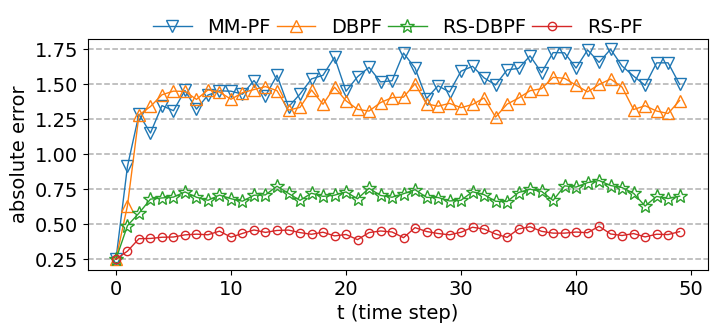
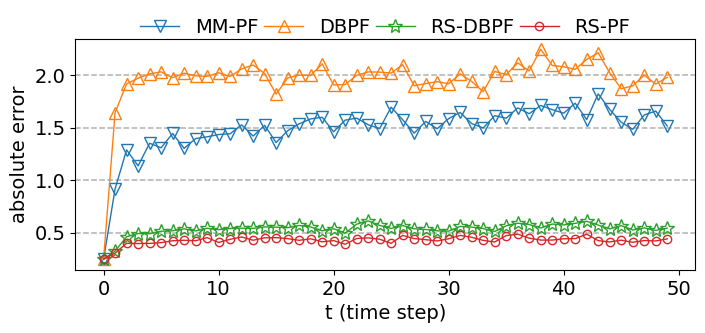
update readme and neural network

diff --git a/NNs.py b/NNs.py
@@ -12,36 +12,50 @@ class dynamic_NN(nn.Module):
         return torch.squeeze(self.fc(s.view(-1, self.input)))
 
 # Neural network for RS-DBPF
+# class dynamic_RSNN(nn.Module): 
+#     def __init__(self, input, hidden, output): 
+#         super().__init__()
+#         self.input = input
+#         self.fc0 = nn.Sequential(nn.Linear((input), (hidden), dtype=torch.float32), nn.Tanh(), nn.Linear((hidden), (output), dtype=torch.float32))
+#         self.fc1 = nn.Sequential(nn.Linear((input), (hidden), dtype=torch.float32), nn.Tanh(), nn.Linear((hidden), (output), dtype=torch.float32))
+#         self.fc2 = nn.Sequential(nn.Linear((input), (hidden), dtype=torch.float32), nn.Tanh(), nn.Linear((hidden), (output), dtype=torch.float32))
+#         self.fc3 = nn.Sequential(nn.Linear((input), (hidden), dtype=torch.float32), nn.Tanh(), nn.Linear((hidden), (output), dtype=torch.float32))
+#         self.fc4 = nn.Sequential(nn.Linear((input), (hidden), dtype=torch.float32), nn.Tanh(), nn.Linear((hidden), (output), dtype=torch.float32))
+#         self.fc5 = nn.Sequential(nn.Linear((input), (hidden), dtype=torch.float32), nn.Tanh(), nn.Linear((hidden), (output), dtype=torch.float32))
+#         self.fc6 = nn.Sequential(nn.Linear((input), (hidden), dtype=torch.float32), nn.Tanh(), nn.Linear((hidden), (output), dtype=torch.float32))
+#         self.fc7 = nn.Sequential(nn.Linear((input), (hidden), dtype=torch.float32), nn.Tanh(), nn.Linear((hidden), (output), dtype=torch.float32))
+
+#     def forward(self, s, m): 
+#         if m==0: 
+#             out = self.fc0(s.view(-1, self.input))
+#         elif m==1: 
+#             out = self.fc1(s.view(-1, self.input))
+#         elif m==2: 
+#             out = self.fc2(s.view(-1, self.input))
+#         elif m==3: 
+#             out = self.fc3(s.view(-1, self.input))
+#         elif m==4: 
+#             out = self.fc4(s.view(-1, self.input))
+#         elif m==5: 
+#             out = self.fc5(s.view(-1, self.input))
+#         elif m==6: 
+#             out = self.fc6(s.view(-1, self.input))
+#         elif m==7: 
+#             out = self.fc7(s.view(-1, self.input))
+#         return torch.squeeze(out)
+
 class dynamic_RSNN(nn.Module): 
     def __init__(self, input, hidden, output): 
         super().__init__()
+        m = 8
         self.input = input
-        self.fc0 = nn.Sequential(nn.Linear((input), (hidden), dtype=torch.float32), nn.Tanh(), nn.Linear((hidden), (output), dtype=torch.float32))
-        self.fc1 = nn.Sequential(nn.Linear((input), (hidden), dtype=torch.float32), nn.Tanh(), nn.Linear((hidden), (output), dtype=torch.float32))
-        self.fc2 = nn.Sequential(nn.Linear((input), (hidden), dtype=torch.float32), nn.Tanh(), nn.Linear((hidden), (output), dtype=torch.float32))
-        self.fc3 = nn.Sequential(nn.Linear((input), (hidden), dtype=torch.float32), nn.Tanh(), nn.Linear((hidden), (output), dtype=torch.float32))
-        self.fc4 = nn.Sequential(nn.Linear((input), (hidden), dtype=torch.float32), nn.Tanh(), nn.Linear((hidden), (output), dtype=torch.float32))
-        self.fc5 = nn.Sequential(nn.Linear((input), (hidden), dtype=torch.float32), nn.Tanh(), nn.Linear((hidden), (output), dtype=torch.float32))
-        self.fc6 = nn.Sequential(nn.Linear((input), (hidden), dtype=torch.float32), nn.Tanh(), nn.Linear((hidden), (output), dtype=torch.float32))
-        self.fc7 = nn.Sequential(nn.Linear((input), (hidden), dtype=torch.float32), nn.Tanh(), nn.Linear((hidden), (output), dtype=torch.float32))
+        self.fc_list = [nn.Sequential(nn.Linear((input), (hidden), dtype=torch.float32), 
+                                 nn.Tanh(), 
+                                 nn.Linear((hidden), (output), dtype=torch.float32))
+                                 for i in range(m)]
 
     def forward(self, s, m): 
-        if m==0: 
-            out = self.fc0(s.view(-1, self.input))
-        elif m==1: 
-            out = self.fc1(s.view(-1, self.input))
-        elif m==2: 
-            out = self.fc2(s.view(-1, self.input))
-        elif m==3: 
-            out = self.fc3(s.view(-1, self.input))
-        elif m==4: 
-            out = self.fc4(s.view(-1, self.input))
-        elif m==5: 
-            out = self.fc5(s.view(-1, self.input))
-        elif m==6: 
-            out = self.fc6(s.view(-1, self.input))
-        elif m==7: 
-            out = self.fc7(s.view(-1, self.input))
+        out = self.fc_list[m](s.view(-1, self.input))
         return torch.squeeze(out)
 
 

diff --git a/classes.py b/classes.py
@@ -284,7 +284,8 @@ class RSDPF(nn.Module, RSPF):
         self.lr = learning_rate
         self.device = device
         self.loss = nn.MSELoss()
-        self.optim = torch.optim.SGD(self.parameters(), lr = learning_rate, momentum=0.9)
+        self.paras = list(para_dyn for i in range(self.N_m) for para_dyn in self.dynamic.fc_list[i].parameters()) + list(para_meas for j in range(self.N_m) for para_meas in self.measure.fc_list[j].parameters())
+        self.optim = torch.optim.SGD(self.paras, lr = learning_rate, momentum=0.9)
         self.optim_scheduler = torch.optim.lr_scheduler.MultiStepLR(self.optim, milestones=[10, 20, 30, 40, 50], gamma=0.5)
 
     def state(self, m_t, s_p): 

diff --git a/README.md b/README.md
@@ -42,10 +42,10 @@ The generated dataset will be stored in the folder ```./datasets/```.  Some opti
 - ```-de/--device``` choose which device to use, available options: **cpu|cuda|mps**, default: **cpu**.
 - ```-nt/--timestep``` number of time steps, default: **50**.
 - ```-tr/--trajectorynum``` number of created trajectories, default: **2000**.
-- ```-mu/--muu``` mean of the disturbance u in the dynamica model, default: **0.**.
-- ```-su/--sigmau``` standard deviation of the disturbance u in the dynamica model, default: **$0.1^{0.5}$**.
-- ```-mv/--muv``` mean of the disturbance v in the measurement model, default: **0.**.
-- ```-sv/--sigmav``` standard deviation of the disturbance v in the measurement model, default: **$0.1^{0.5}$**.
+- ```-mu/--muu``` mean of the disturbance u in the dynamica model, default: **0.0**.
+- ```-su/--sigmau``` standard deviation of the disturbance u in the dynamica model, default: **$1e-1^{0.5}$**.
+- ```-mv/--muv``` mean of the disturbance v in the measurement model, default: **0.0**.
+- ```-sv/--sigmav``` standard deviation of the disturbance v in the measurement model, default: **$1e-1^{0.5}$**.
 - ```--ts/--testsize``` percentage of test datasets over all created trajectories, default: **0.25**.
 
 
@@ -58,38 +58,38 @@ The generated dataset will be stored in the folder ```./datasets/```.  Some opti
 - ```-nptr/--trainparticlenum``` number of particles for training, default: **200**.
 - ```-npte/--testparticlenum``` number of particles for testing, default: **2000**.
 - ```-mu/--muu``` mean of the disturbance u in the dynamica model, default: **0.**.
-- ```-su/--sigmau``` standard deviation of the disturbance u in the dynamica model, default: **$0.1^{0.5}$**.
+- ```-su/--sigmau``` standard deviation of the disturbance u in the dynamica model, default: **$1e-1^{0.5}$**.
 - ```-mv/--muv``` mean of the disturbance v in the measurement model, default: **0.**.
-- ```-sv/--sigmav``` standard deviation of the disturbance v in the measurement model, default: **$0.1^{0.5}$**.
+- ```-sv/--sigmav``` standard deviation of the disturbance v in the measurement model, default: **$1e-1^{0.5}$**.
 - ```-re/--resample``` resampling method, available options: **mul|sys**(i.e., multinomial|systematic), default: **mul**.
 - ```-tr/--train``` whether train differentiable particle filter, default: **true**.
 - ```-te/--test``` whether test model performance, default: **true**.
 - ```-ep/--epochnum``` epoch number for training, default: **60**.
-- ```-lr/--learningrate``` learning rate for training, default: **$5*10^{-2}$**.
+- ```-lr/--learningrate``` learning rate for training, default: **$5e-2$**.
 - ```-ttr/--trainingtrajectorynum``` number of training trajectories, default: **1000**.
 - ```-tb/--trainingbatchsize``` training batch size, default: **100**.
 - ```-vb/--valbatchsize``` validation batch size, default: **500**.
 - ```-teb/--testbatchsize``` testing batch size, default: **500**.
 
-#### RS-DBPF
+####  Regime-switching differentiable bootstrap particle filter (RS-DBPF)
 
 - ```-rsdpf/--regimeswitchingdpf``` whether operate regime switching differentiable particle filter, default: **true**.
 - ```-dy/--dynamics``` model switching dynamics, available options: **Mark|Poly**(i.e., Markovian|Polya urn), can be appended for both two.
 - ```-nn/--neuralnetwork``` whether use neural network, default: **true**.
 - ```-pr/--proposal``` proposal type of model index sampling, available options: **Boot|Uni|Deter**(i.e., Bootstrap|Uniform|Deterministic), can be appended for all three.
 
-#### DBPF
+#### Differentiable bootstrap particle filter (DBPF)
 
 - ```-sidpf/--singlemodeldpf``` whether operate single model differentiable particle filter, default: **true**.
 - ```-nn/--neuralnetwork``` whether use neural network, default: **true**.
 
-#### RS-PF
+#### Regime-switching particle filter (RS-PF)
 
 - ```-rspf/--regimeswitchingpf``` whether test regime switching particle filter, default: **true**.
 - ```-dy/--dynamics``` model switching dynamics, available options: **Mark|Poly**(i.e., Markovian|Polya urn), can be appended for both two.
 - ```-pr/--proposal``` proposal type of model index sampling, available options: **Boot|Uni|Deter**(i.e., Bootstrap|Uniform|Deterministic), can be appended for all three.
 
-#### MM-PF
+#### Multi-model particle filter (MM-PF)
 
 - ```-mmpf/--multimodelpf``` whether test multi-model particle filter, default: **true**.
 - ```-ga/--gamma``` hyperparameter gamma for multi-model particle filter, can be appended for all needed gamma parameters.
